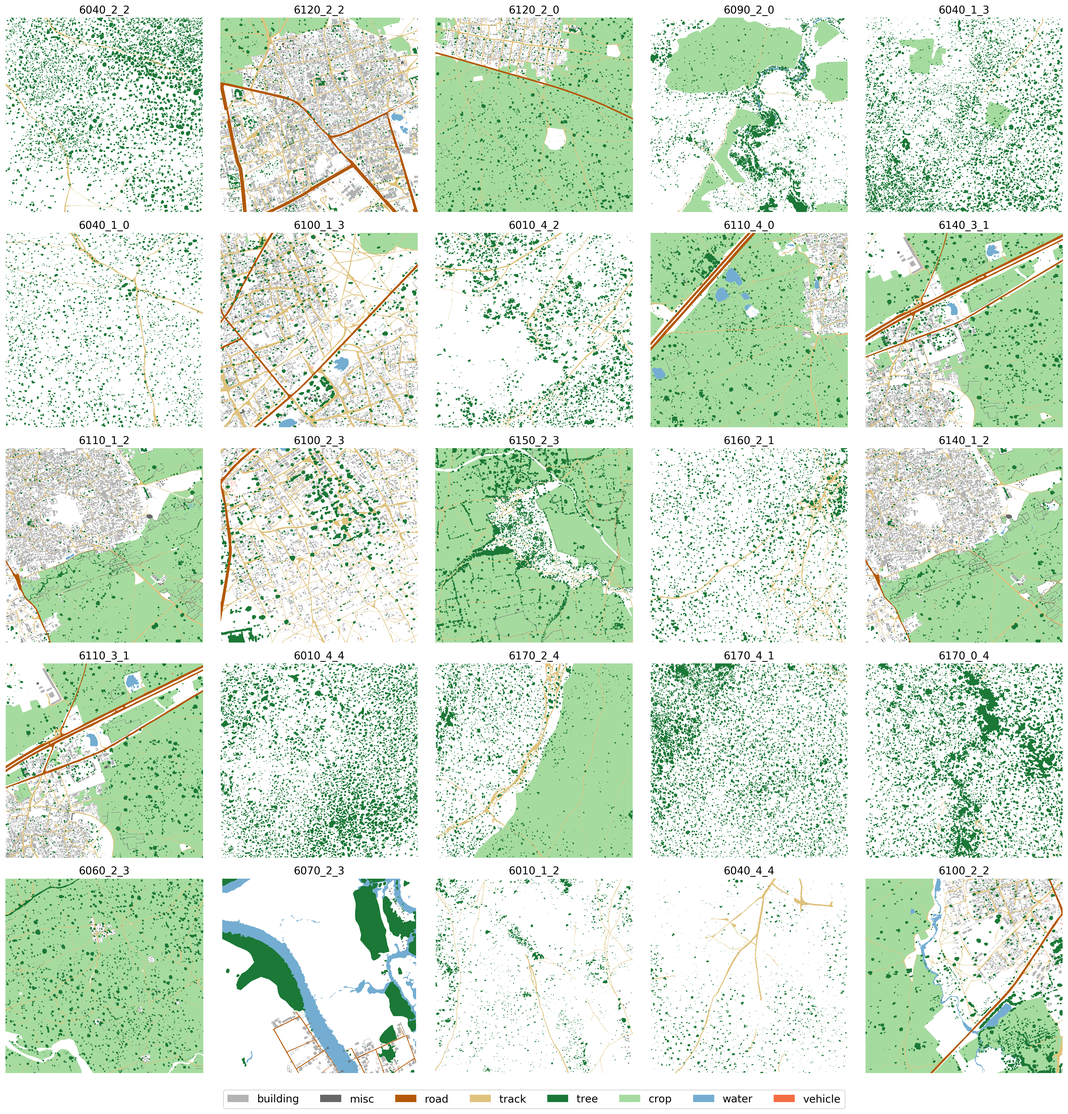
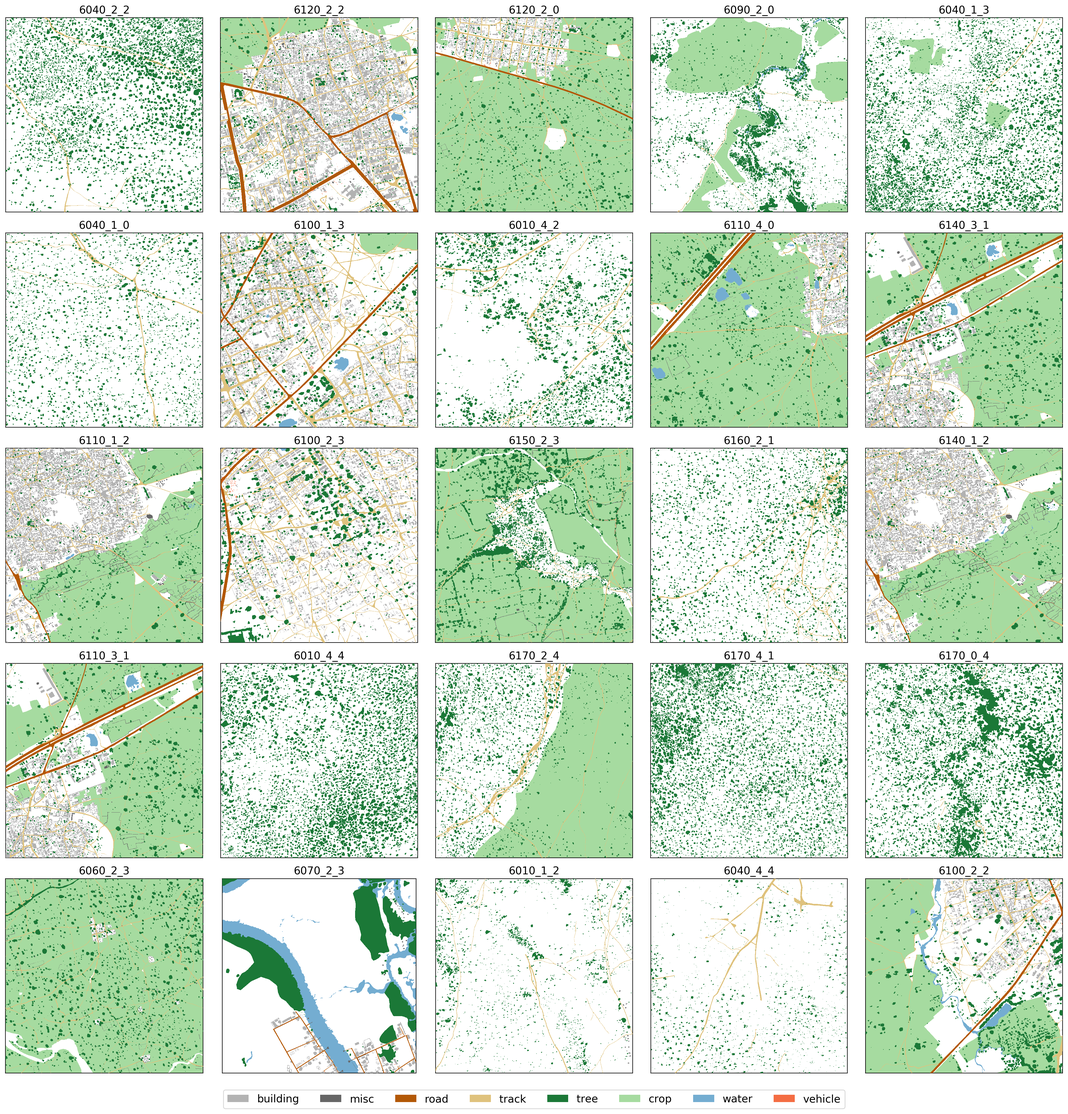
Remove white backgroud of figures

diff --git a/Code/extract_images.py b/Code/extract_images.py
@@ -68,6 +68,7 @@ img_fused = pansharpen(m, p, order=3, W=1.5, stretch_perc=(1,99))
 
 #%%
 fig, axs = plt.subplots(1,3,figsize=(12,6))
+fig.patch.set_alpha(0)
 axs[0].imshow(m_tmp[300:400,300:400,[6,4,2]])
 axs[0].set_title('Multispectral Image', fontsize=12)
 axs[1].imshow(m_up[1200:1600,1200:1600,[6,4,2]])
@@ -76,7 +77,7 @@ axs[2].imshow(img_fused[1200:1600,1200:1600,[6,4,2]])
 axs[2].set_title('Image fusion', fontsize=12)
 for ax in axs: ax.set_axis_off()
 fig.tight_layout()
-fig.savefig('../Figures/pansharpening.png', dpi=200)
+fig.savefig('../Figures/pansharpening.png', dpi=150, bbox_inches='tight')
 plt.show()
 
 #%% Index example
@@ -89,6 +90,7 @@ ndvi = NDVI(img_fused[:,:,4], img_fused[:,:,6])
 ndwi = NDVI(img_fused[:,:,6], img_fused[:,:,2])
 evi = EVI(img_fused[:,:,4], img_fused[:,:,6], img_fused[:,:,1])
 fig, axs = plt.subplots(1,4,figsize=(16,6))
+fig.patch.set_alpha(0)
 axs[0].set_title('NDVI', fontsize=12)
 axs[0].imshow(ndvi[:,:], cmap='PiYG', vmin=-1, vmax=1)
 axs[1].set_title('NDWI', fontsize=12)
@@ -99,5 +101,5 @@ axs[3].set_title('True Color Composition', fontsize=12)
 axs[3].imshow(img_fused[:,:,[4,2,1]])
 for ax in axs: ax.set_axis_off()
 fig.tight_layout()
-fig.savefig('../Figures/indices.png', dpi=200)
+fig.savefig('../Figures/indices.png', dpi=150, bbox_inches='tight')
 plt.show()

diff --git a/Code/dataset_figure.py b/Code/dataset_figure.py
@@ -21,6 +21,7 @@ df = pd.read_csv(path_to_data+'train_samples.csv', index_col=0, converters={'cla
 # %% plot
 N_img = 6
 fig, axs = plt.subplots(8,N_img,figsize=(N_img*3,8*3+2), gridspec_kw={'wspace':0.05, 'hspace':0.2})
+fig.patch.set_alpha(0)
 
 for i, (class_name, class_pos) in enumerate(class_position.items()):
     # creat dataset
@@ -29,7 +30,7 @@ for i, (class_name, class_pos) in enumerate(class_position.items()):
     # draw group rectangles
     pos = axs[i,0].get_position()
     fig.patches.extend([plt.Rectangle((pos.x0-0.06,pos.y0-0.05*pos.height), pos.width*1.125*N_img , pos.height*1.1,
-                                       facecolor='lightgray', ec='black', alpha=0.5, zorder=-1,
+                                       facecolor='whitesmoke', ec='black', alpha=1, zorder=-1,
                                        transform=fig.transFigure, figure=fig)])
     fig.text(pos.x0-0.03, pos.y0+0.5*pos.height, class_name.title(), rotation=90, rotation_mode='anchor', \
              fontweight='bold', fontsize=14, ha='center', va='center')

diff --git a/Code/extract_sets.py b/Code/extract_sets.py
@@ -70,6 +70,7 @@ subimg = load_image_part((0,0), (5*80,8*80), path_to_img+id_train[2]+'.tif')
 crops = get_crops_grid(subimg.shape[1], subimg.shape[2], crop_size_train, overlap_train)
 #%%
 fig, ax = plt.subplots(1,1,figsize=(10,7))
+#fig.patch.set_alpha(0)
 ax.imshow(np.moveaxis(subimg[[4,2,1], :, :], 0, 2))
 ax.set_axis_off()
 ax.set_title('train sample generation example', fontsize=12)
@@ -92,4 +93,4 @@ def animate(c):
     return [P1,P2]
 
 anim = matplotlib.animation.FuncAnimation(fig, animate, init_func=init, frames=crops, interval=500, blit=True)
-anim.save('../Figures/train_samples.gif', writer='imagemagick', dpi=100)
+anim.save('../Figures/train_samples.gif', writer='imagemagick', dpi=150)

diff --git a/Code/extract_masks.py b/Code/extract_masks.py
@@ -45,10 +45,12 @@ for i, img_id in enumerate(img_id_list):
 
 # %% plot masks
 fig, axs = plt.subplots(5,5,figsize=(20,20))
+fig.patch.set_alpha(0)
 for (id, mask), ax in zip(masks.items(), axs.reshape(-1)):
     plot_masks(ax, mask, order_dict, color_dict, zorder_dict, legend=False)
     ax.set_title(id, fontsize=14)
-    ax.set_axis_off()
+    ax.tick_params(axis='both', which='both',bottom=False, top=False,\
+                   labelbottom=False, right=False, left=False, labelleft=False)
 
 handles = [matplotlib.patches.Patch(facecolor=pcol) for pcol in color_dict.values()]
 labels = list(color_dict.keys())
